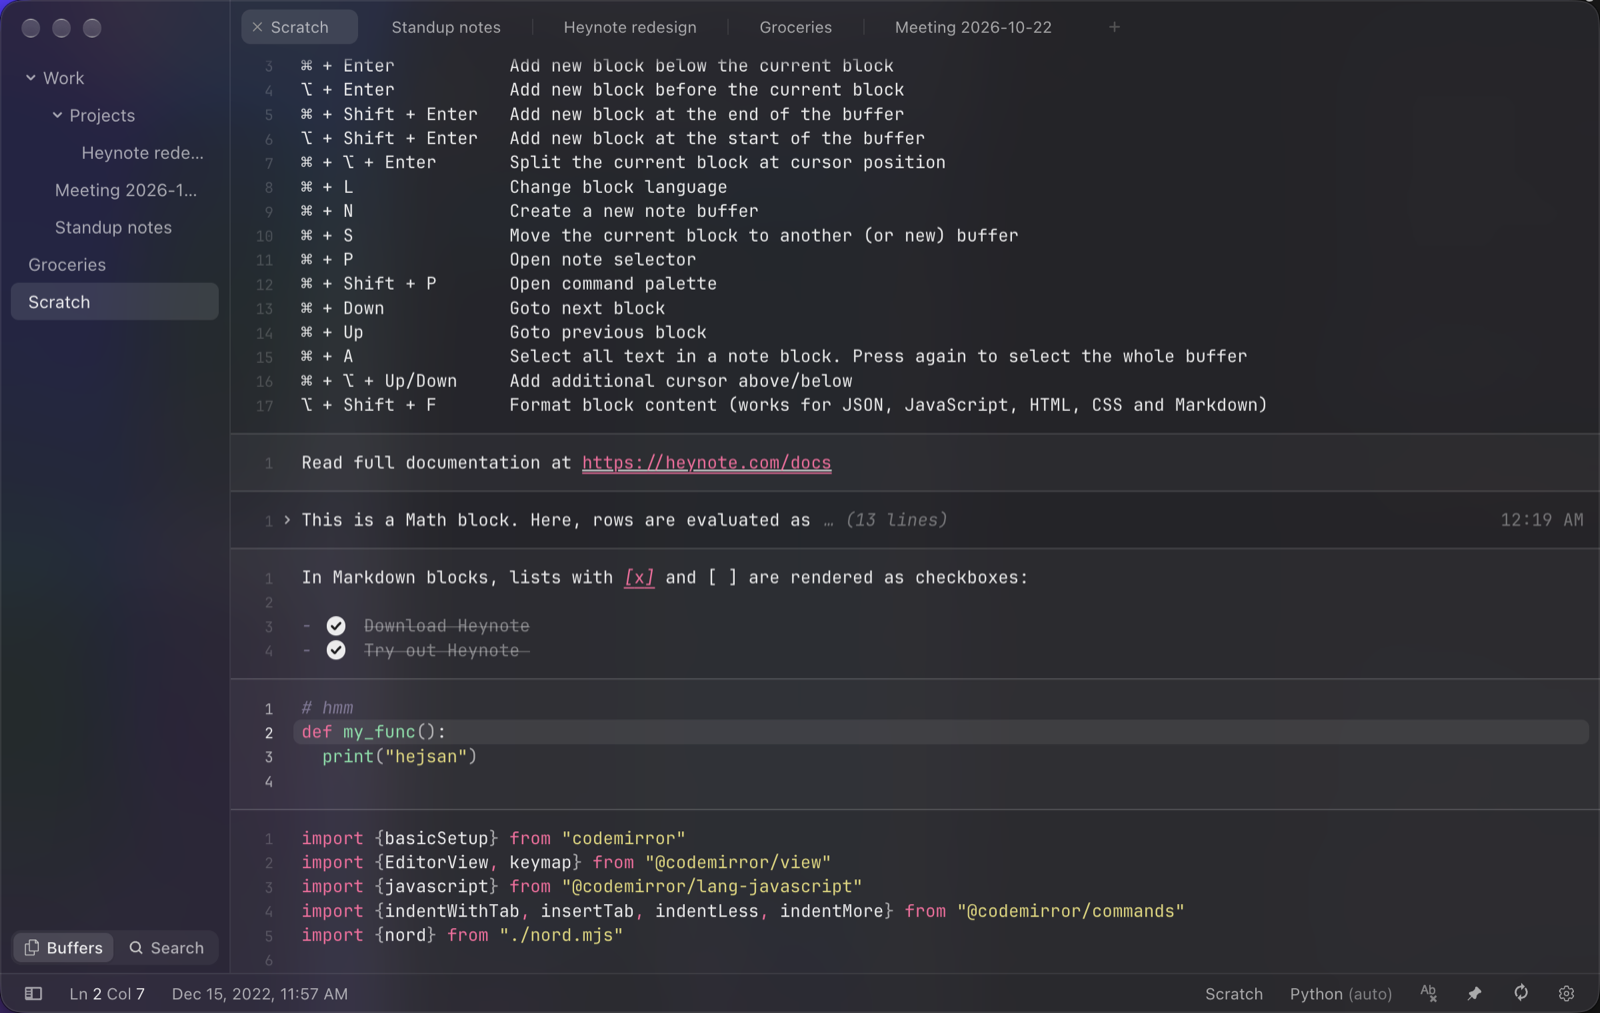
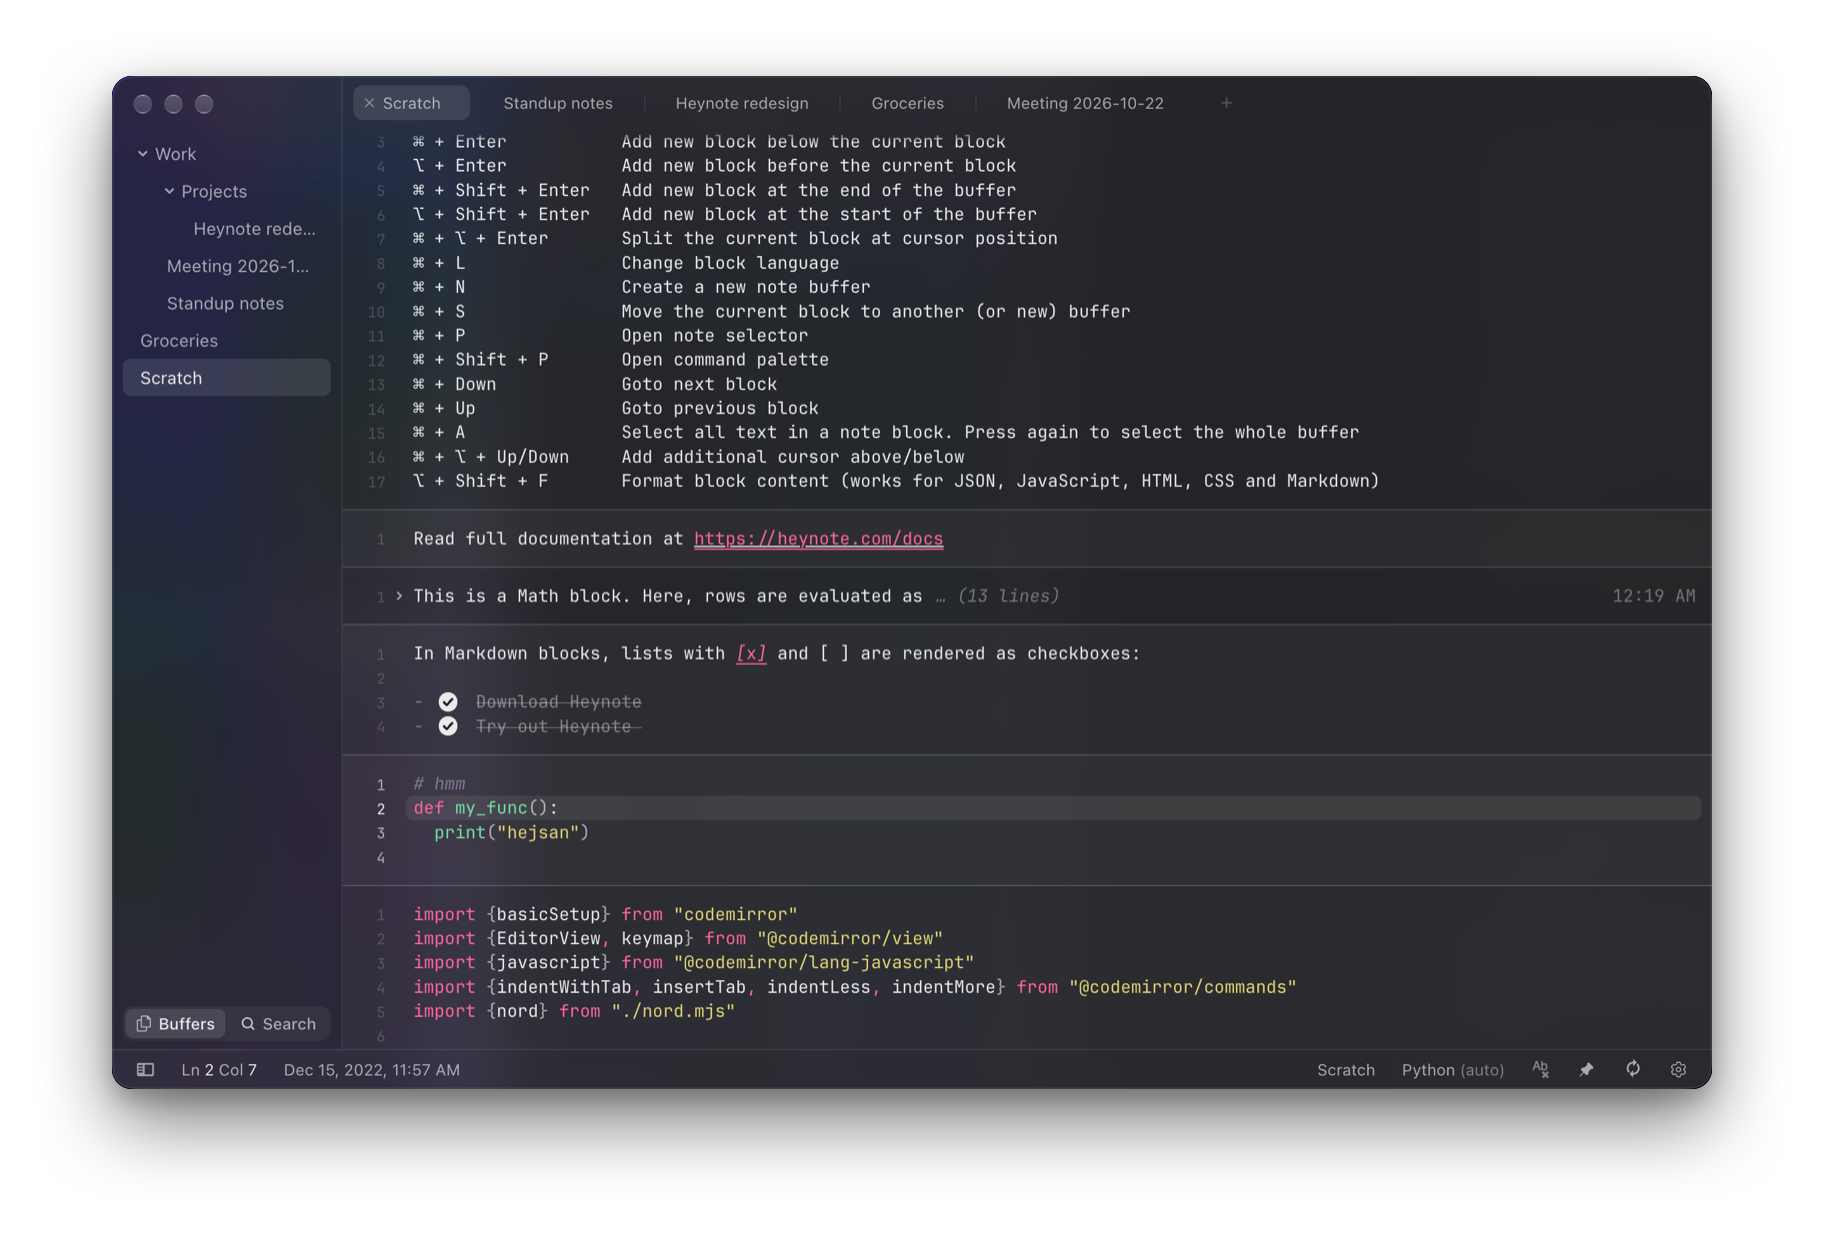
Frame the README screenshots with macOS window shadow and padding
Frame the dark, light, and redesigned System Settings screenshots with rounded macOS window corners, native drop shadow, and transparent padding matching upstream's window captures, and update the README heading and feature list for Reynote.

diff --git a/README.md b/README.md
@@ -1,4 +1,4 @@
-# Heynote
+# Reynote
 
 > [!NOTE]
 > This is my personal work-in-progress fork of [heyman/heynote](https://github.com/heyman/heynote). Expect lots of slop but a much prettier UI. For the official app, use the upstream repo.
@@ -14,16 +14,16 @@ What the fork adds on top of upstream:
 
 -   A Raycast-style design system: one palette built from the text color, roomier dialogs, palettes and status bar
 -   Translucent window (macOS vibrancy), which goes opaque with "Reduce transparency"
--   Blocks separated by full-width dividers, with a framed band behind the block holding the cursor
--   A soft pill on the current line
+-   Blocks separated by full-width dividers, with a framed band behind the block holding the cursor, and per-block selection drawing
+-   A soft pill on the current line that hugs the cursor at any line height
 -   A quieter line-number gutter that lights up the active block, and a drawn fold chevron
 -   Round task checkboxes that pop and strike through when checked
--   Switches for on/off settings, segmented Buffers/Search control
+-   Settings redesigned after macOS System Settings, with icon badges, grouped cards, switches, and segmented controls
 -   Raised chip tabs under one seamless macOS title row
--   Separate Interface Font and Editor Font settings
--   Press feedback, dialog fades and other small motion, all off under "Reduce motion"
+-   Separate Interface Font, Editor Font, and Line Height settings
+-   Press feedback, dialog fades, view-transition theme crossfade, shake on refused actions, and other small motion, all respecting "Reduce motion"
 
-<img src="docs/img/fork-settings-dark.png" width="851" alt="Settings with switches and the Interface Font setting">
+<img src="docs/img/fork-settings-dark.png" width="851" alt="Settings redesigned after macOS System Settings">
 
 [![GitHub release (latest SemVer)](https://img.shields.io/github/v/release/heyman/heynote)](https://github.com/heyman/heynote/releases)
 [![Build Status](https://github.com/heyman/heynote/workflows/Tests/badge.svg)](https://github.com/heyman/heynote/actions?query=workflow%3ATests)
@@ -120,4 +120,3 @@ See the [documentation](https://heynote.com/docs/#user-content-default-key-bindi
 ## Thanks!
 
 Heynote is built upon [CodeMirror](https://codemirror.net/), [Vue](https://vuejs.org/), [Electron](https://www.electronjs.org/), [Math.js](https://mathjs.org/), [Prettier](https://prettier.io/) and other great open-source projects.
-
